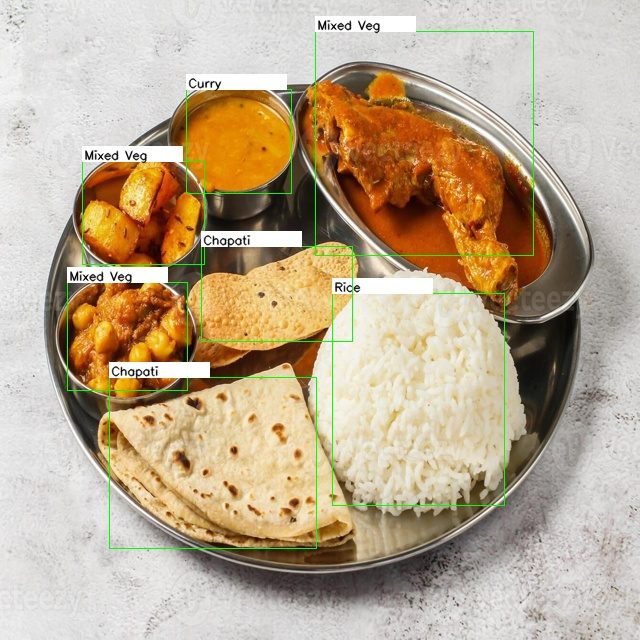
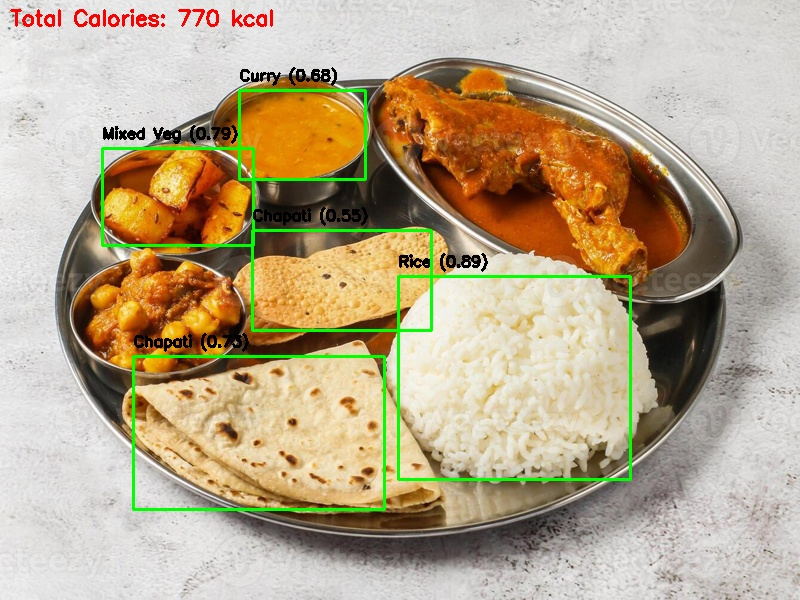
Added the cloudinary

Changed region(s): [[0.0938, 0.0, 0.8438, 0.87], [0.0, 0.0, 0.3438, 0.06]]

diff --git a/app.py b/app.py
@@ -1,15 +1,26 @@
-from flask import Flask, request, render_template_string, send_from_directory
+from flask import Flask, request, render_template_string, send_from_directory, jsonify
 from werkzeug.utils import secure_filename
 import os
-import numpy as np
 import cv2
-from ultralytics import YOLO
+import numpy as np
 from PIL import Image
+from ultralytics import YOLO
+import cloudinary
+import cloudinary.uploader
+import uuid
+import json
+
+# === Cloudinary Config ===
+cloudinary.config(
+    cloud_name="da4mdjezu",
+    api_key="493281977135412",
+    api_secret="P5xxU64uEjNZy6wITFM5pD5Qu54"
+)
 
 app = Flask(__name__)
 model = YOLO("perfect.pt")
 
-# Nutrition values per 100g or per count
+# Nutrition info
 nutrition_info = {
     "Rice": {"calories": 200, "protein": 4, "fat": 0.5, "carbs": 45, "type": "gram"},
     "Curry": {"calories": 180, "protein": 5, "fat": 9, "carbs": 20, "type": "gram"},
@@ -19,13 +30,6 @@ nutrition_info = {
     "Chavvali": {"calories": 160, "protein": 8, "fat": 2, "carbs": 30, "type": "gram"},
     "Watana": {"calories": 140, "protein": 7, "fat": 1, "carbs": 25, "type": "gram"},
 }
-
-# Maximum allowed image size for processing
-MAX_IMAGE_SIZE = (640, 640)  # Resize the image to this fixed size
-
-def resize_image(image):
-    """Resizes the image to the desired size (MAX_IMAGE_SIZE)."""
-    return image.resize(MAX_IMAGE_SIZE)
 
 @app.route("/", methods=["GET", "POST"])
 def upload_image():
@@ -37,24 +41,20 @@ def upload_image():
         filename = secure_filename(image_file.filename)
         os.makedirs("uploads", exist_ok=True)
         image_path = os.path.join("uploads", filename)
-        image_file.save(image_path)
 
-        # Open and resize the image using PIL (Pillow)
-        img = Image.open(image_path)
-        img = resize_image(img)
-        img.save(image_path)  # Save the resized image back
+        # Resize and save image
+        img = Image.open(image_file.stream)
+        img = img.resize((800, 600))
+        img.save(image_path)
 
-        # Convert the image back to OpenCV format
         img_cv = cv2.cvtColor(np.array(img), cv2.COLOR_RGB2BGR)
-
         results = model(image_path)
-        output_texts = []
         detected_items = {}
+        total_calories = 0
 
         for result in results:
             boxes = result.boxes
             names = result.names
-
             for box in boxes:
                 cls_id = int(box.cls[0].item())
                 conf = box.conf[0].item()
@@ -63,58 +63,52 @@ def upload_image():
 
                 class_name = names.get(cls_id, "Unknown")
                 x1, y1, x2, y2 = map(int, box.xyxy[0])
-                cv2.rectangle(img_cv, (x1, y1), (x2, y2), (0, 255, 0), 1)
+                cv2.rectangle(img_cv, (x1, y1), (x2, y2), (0, 255, 0), 2)
 
                 label = f"{class_name} ({conf:.2f})"
-                font = cv2.FONT_HERSHEY_SIMPLEX
-                font_scale = 0.4
-                thickness = 1
-                text_color = (0, 0, 0)
-                bg_color = (255, 255, 255)
-
-                cv2.rectangle(img_cv, (x1, y1 - 15), (x1 + 100, y1), bg_color, -1)
-                cv2.putText(img_cv, class_name, (x1 + 2, y1 - 2), font, font_scale, text_color, thickness, cv2.LINE_AA)
+                cv2.putText(img_cv, label, (x1, y1 - 10), cv2.FONT_HERSHEY_SIMPLEX, 0.5, (0, 0, 0), 2)
 
                 if class_name in nutrition_info:
                     detected_items[class_name] = detected_items.get(class_name, 0) + 1
+                    total_calories += nutrition_info[class_name]["calories"]
 
         if not detected_items:
             return "<script>alert('No recognizable food item detected. Please upload a valid food image.'); window.location.href='/'</script>"
 
-        # Save annotated image
-        annotated_path = os.path.join("uploads", "annotated_" + filename)
+        # Total calories display
+        cv2.putText(img_cv, f"Total Calories: {total_calories} kcal", (10, 25),
+                    cv2.FONT_HERSHEY_SIMPLEX, 0.7, (0, 0, 255), 2)
+
+        # Save and upload image to Cloudinary
+        annotated_name = "annotated_" + filename
+        annotated_path = os.path.join("uploads", annotated_name)
         cv2.imwrite(annotated_path, img_cv)
 
-        # Create quantity form
-        quantity_form = ''
+        uploaded = cloudinary.uploader.upload(annotated_path)
+        cloud_url = uploaded["secure_url"]
+
+        # Quantity input form
+        quantity_form = ""
         for item in detected_items:
             if nutrition_info[item]["type"] == "count":
                 quantity_form += f'<label>{item} (count):</label><input type="number" name="{item}" min="0" value="{detected_items[item]}"><br>'
             else:
                 quantity_form += f'<label>{item} (grams):</label><input type="number" name="{item}" min="0" value="100"><br>'
 
-        return render_template_string("""
+        return render_template_string(f"""
             <html>
-            <head>
-                <title>Confirm Quantities</title>
-                <style>
-                    body { font-family: Arial; padding: 30px; text-align: center; }
-                    img { max-width: 90%%; margin-top: 20px; border-radius: 12px; box-shadow: 0 0 12px rgba(0,0,0,0.2); }
-                    form input[type='number'] { width: 80px; margin: 5px; padding: 5px; }
-                    form input[type='submit'] { padding: 8px 16px; background: #28a745; color: white; border: none; border-radius: 6px; cursor: pointer; }
-                </style>
-            </head>
-            <body>
-                <h2>Detected Items: Confirm Quantity</h2>
+            <head><title>Confirm Quantities</title></head>
+            <body style="font-family:sans-serif;text-align:center;">
+                <h2>Confirm Quantity for Detected Items</h2>
                 <form action="/calculate" method="POST">
-                    %s
-                    <input type="hidden" name="image_filename" value="%s">
-                    <input type="submit" value="Calculate Nutrition">
+                    {quantity_form}
+                    <input type="hidden" name="image_url" value="{cloud_url}">
+                    <br><input type="submit" value="Calculate Nutrition">
                 </form>
-                <img src="/uploads/%s">
+                <img src="{cloud_url}" width="80%">
             </body>
             </html>
-        """ % (quantity_form, "annotated_" + filename, "annotated_" + filename))
+        """)
 
     return '''
         <h2>Upload a Food Image for Nutrition Analysis</h2>
@@ -127,7 +121,8 @@ def upload_image():
 @app.route("/calculate", methods=["POST"])
 def calculate_nutrition():
     total = {"calories": 0, "protein": 0, "fat": 0, "carbs": 0}
-    summary_lines = []
+    food_data = {}
+    cloud_url = request.form["image_url"]
 
     for item in nutrition_info:
         qty = request.form.get(item)
@@ -137,52 +132,51 @@ def calculate_nutrition():
                 data = nutrition_info[item]
                 scale = qty if data["type"] == "count" else qty / 100
 
-                cal = data["calories"] * scale
-                pro = data["protein"] * scale
-                fat = data["fat"] * scale
-                carb = data["carbs"] * scale
+                food_data[item] = {
+                    "calories": round(data["calories"] * scale, 1),
+                    "protein": round(data["protein"] * scale, 1),
+                    "fat": round(data["fat"] * scale, 1),
+                    "carbs": round(data["carbs"] * scale, 1),
+                    "quantity": int(qty),
+                    "unit": data["type"]
+                }
 
-                summary_lines.append(f"{item} → {cal:.1f}kcal | P:{pro:.1f}g F:{fat:.1f}g C:{carb:.1f}g")
-
-                total["calories"] += cal
-                total["protein"] += pro
-                total["fat"] += fat
-                total["carbs"] += carb
+                total["calories"] += data["calories"] * scale
+                total["protein"] += data["protein"] * scale
+                total["fat"] += data["fat"] * scale
+                total["carbs"] += data["carbs"] * scale
             except:
                 continue
 
-    image_filename = request.form["image_filename"]
+    # === Generate JSON ===
+    final_json = {
+        "annotated_image_url": cloud_url,
+        "nutritional_summary": food_data,
+        "total": {
+            "calories": round(total["calories"], 1),
+            "protein": round(total["protein"], 1),
+            "fat": round(total["fat"], 1),
+            "carbs": round(total["carbs"], 1)
+        }
+    }
 
-    return render_template_string("""
-        <html>
-        <head>
-            <title>Nutrition Summary</title>
-            <style>
-                body { font-family: Arial; padding: 30px; text-align: center; }
-                ul { list-style: none; padding: 0; font-size: 15px; }
-                li { margin: 6px 0; }
-                .total { margin-top: 25px; font-weight: bold; }
-                img { max-width: 90%%; border-radius: 12px; margin-top: 20px; box-shadow: 0 0 12px rgba(0,0,0,0.2); }
-            </style>
-        </head>
-        <body>
-            <h2>🍱 Final Nutrition Summary</h2>
-            <ul>
-            {% for line in summary_lines %}
-                <li>{{ line }}</li>
-            {% endfor %}
-            </ul>
-            <div class="total">
-                🔥 Total: {{ total['calories'] | round(1) }} kcal |
-                P: {{ total['protein'] | round(1) }}g |
-                F: {{ total['fat'] | round(1) }}g |
-                C: {{ total['carbs'] | round(1) }}g
-            </div>
-            <img src="/uploads/{{ image_filename }}">
-            <br><br><a href="/">🔄 Predict Another</a>
-        </body>
-        </html>
-    """, summary_lines=summary_lines, total=total, image_filename=image_filename)
+    # === Save JSON locally ===
+    os.makedirs("uploads", exist_ok=True)
+    json_filename = f"nutrition_{uuid.uuid4().hex}.json"
+    json_path = os.path.join("uploads", json_filename)
+    with open(json_path, "w") as f:
+        json.dump(final_json, f, indent=2)
+
+    # === Upload JSON to Cloudinary ===
+    uploaded_json = cloudinary.uploader.upload(json_path, resource_type="raw")
+    json_url = uploaded_json["secure_url"]
+
+    # === Return Final JSON Response ===
+    return jsonify({
+        "annotated_image_url": cloud_url,
+        "nutrition_json_url": json_url,
+        **final_json
+    })
 
 @app.route("/uploads/<filename>")
 def uploaded_file(filename):
